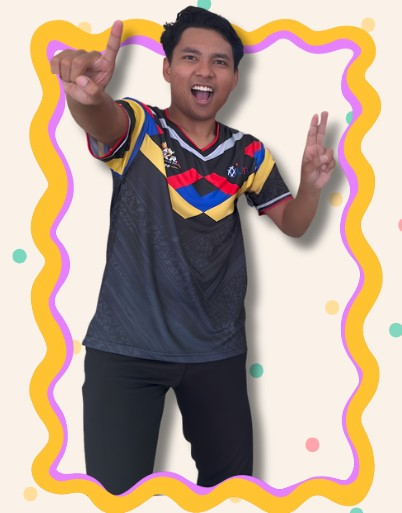
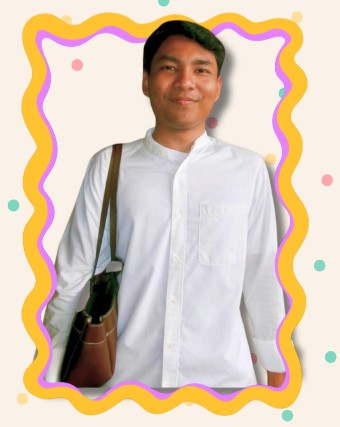
Committee: new photo for Adam Iman

diff --git a/js/script.js b/js/script.js
@@ -351,7 +351,7 @@ var COMMITTEE = [
   {role:'Treasurer', tier:'lead', people:[{n:'Muhammad Hanif Danial bin Jurayme', photo:'hanif.jpg'}]},
   {role:'Head of Facilitator', tier:'unit', people:[{n:'Muhammad Hidayatullah bin Zahari', photo:'hidayatullah.jpg'}]},
   {role:'Media & Documentation', tier:'unit', people:[{n:'Nur Nadhirah Nabilah binti Roslee', photo:'nadhirah.jpg'}, {n:'Aisyah Afina binti Md. Razak'}, {n:'Nur Shazea Qhadra binti Mohd Saifullyzan'}, {n:'Kamalin Mastura binti Abdul Alim', photo:'kamalin.jpg'}]},
-  {role:'Logistic & Food', tier:'unit', people:[{n:'Adam Iman bin Zahairi', photo:'adamiman.jpg'}, {n:'Mohamad Ali Jefri bin Asbullah Nasir', photo:'alijefri.jpg'}, {n:'Aqmar Khadijah Umairah binti Mohd Zamri', photo:'aqmar.jpg'}, {n:'Muhammad Adib Zikri bin Kamarul Idzham', photo:'adibzikri.jpg'}]},
+  {role:'Logistic & Food', tier:'unit', people:[{n:'Adam Iman bin Zahairi', photo:'adamiman.jpg?v=2'}, {n:'Mohamad Ali Jefri bin Asbullah Nasir', photo:'alijefri.jpg'}, {n:'Aqmar Khadijah Umairah binti Mohd Zamri', photo:'aqmar.jpg'}, {n:'Muhammad Adib Zikri bin Kamarul Idzham', photo:'adibzikri.jpg'}]},
   {role:'Technical', tier:'unit', people:[{n:'Eddruce bin Badrul Hisham', photo:'eddruce.jpg'}]},
   {role:'Activity', tier:'unit', people:[{n:'Hazrul Amin bin Harul Azman', photo:'hazrul.jpg'}, {n:'Muhammad Nazhiym Zuhayri bin Abd Razak', photo:'nazhiym.jpg'}, {n:'Amalin Najwa binti Mokhtar', photo:'amalin.jpg'}, {n:'A’Atikah Nabilah binti Zulkarnain', photo:'atikah.jpg'}]},
   {role:'Protocol & Safety', tier:'unit', people:[{n:'Alif Abdul Jabbar bin Mohamed Farook', photo:'jabbar.jpg'}, {n:'Nurerdiena Safea binti Rizal', photo:'nurerdiena.jpg'}]}

diff --git a/index.html b/index.html
@@ -14,7 +14,7 @@
 <link rel="preconnect" href="https://fonts.googleapis.com">
 <link rel="preconnect" href="https://fonts.gstatic.com" crossorigin>
 <link href="https://fonts.googleapis.com/css2?family=Baloo+2:wght@500;600;700;800&family=Nunito:wght@400;600;700;800&family=Gaegu:wght@700&display=swap" rel="stylesheet">
-<link rel="stylesheet" href="css/style.css?v=20261106e">
+<link rel="stylesheet" href="css/style.css?v=20261106f">
 </head>
 <body>
 <div class="blob-field">
@@ -517,7 +517,7 @@
 <script src="https://www.gstatic.com/firebasejs/10.12.2/firebase-app-compat.js" integrity="sha384-AQ3POAMqIhwS81FrUH95ekxqBZHeP5tG2JfEL3+7GuTtfRLWnrRh32UxwzM+//A9" crossorigin="anonymous"></script>
 <script src="https://www.gstatic.com/firebasejs/10.12.2/firebase-auth-compat.js" integrity="sha384-TnlRYaR4JYz/lpaGuaiU61PjNberSA4vjLjtF+oRC/IkohkJqnWxw5EmDSOt1vA1" crossorigin="anonymous"></script>
 <script src="https://www.gstatic.com/firebasejs/10.12.2/firebase-firestore-compat.js" integrity="sha384-qn4Jh88HhJA8dplNQyGjOh9OGI4izVhrfj/qIFgaKcdgOE06pXqIKGlsCILZcLAC" crossorigin="anonymous"></script>
-<script src="js/firebase-config.js?v=20261106e"></script>
-<script src="js/script.js?v=20261106e"></script>
+<script src="js/firebase-config.js?v=20261106f"></script>
+<script src="js/script.js?v=20261106f"></script>
 </body>
 </html>
